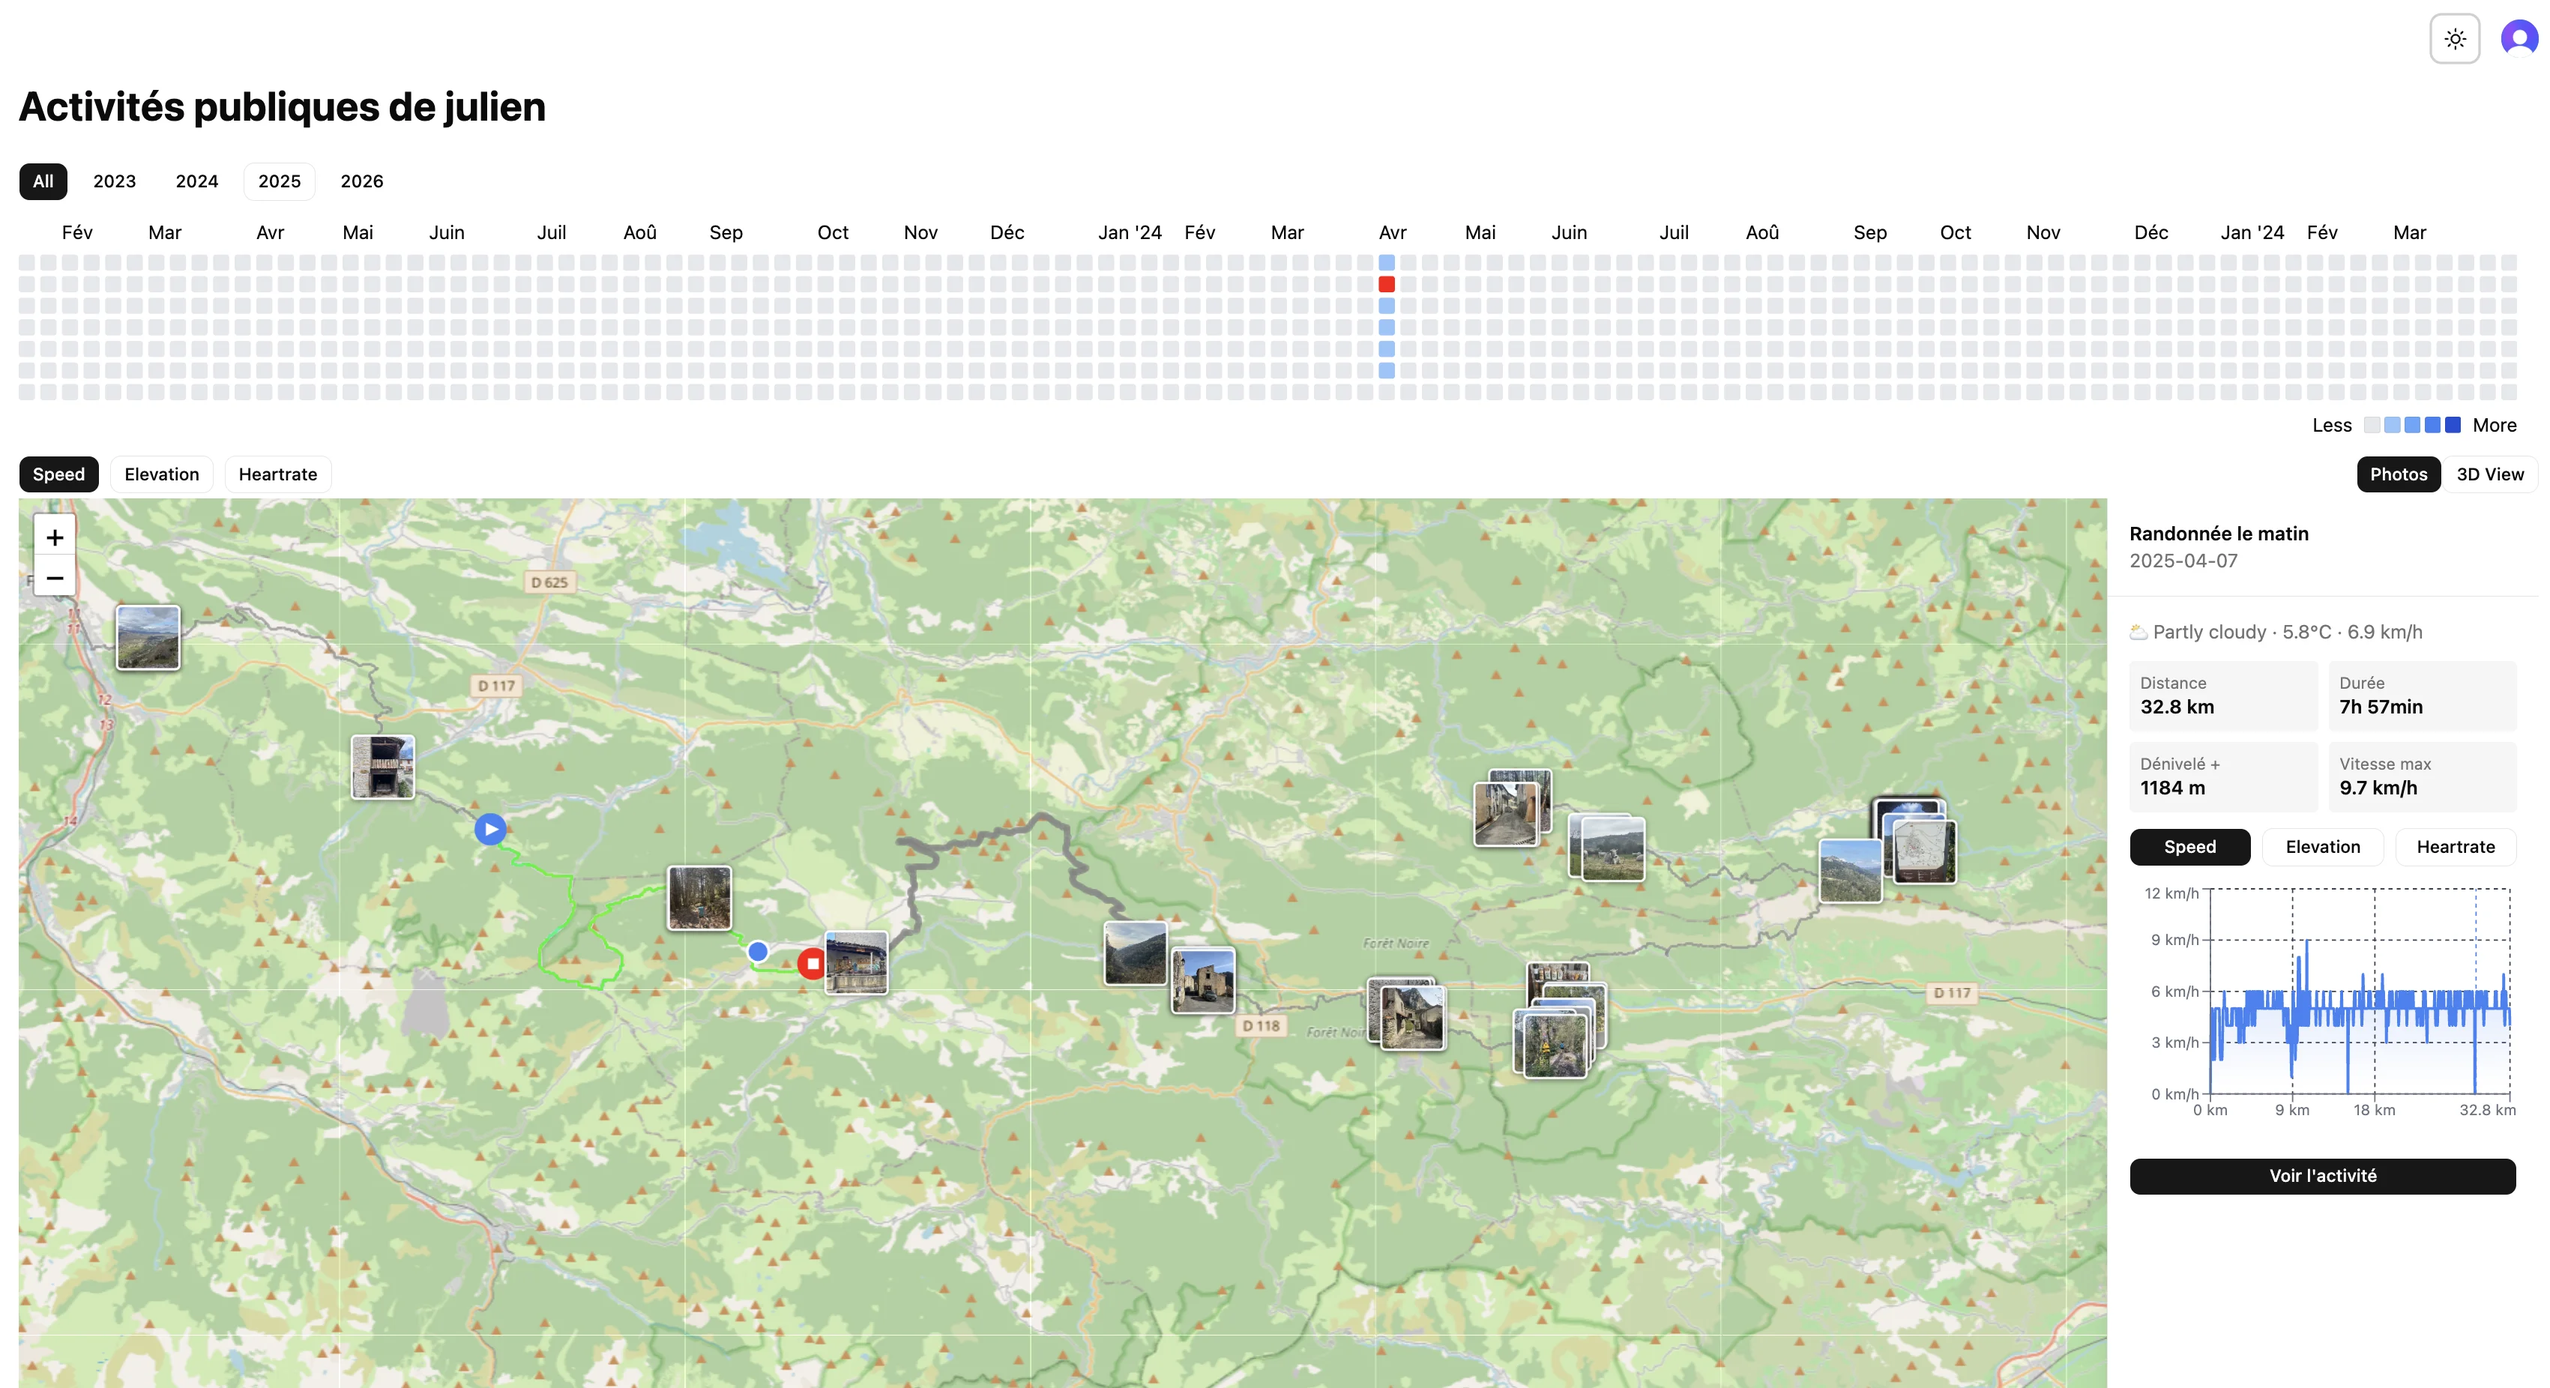
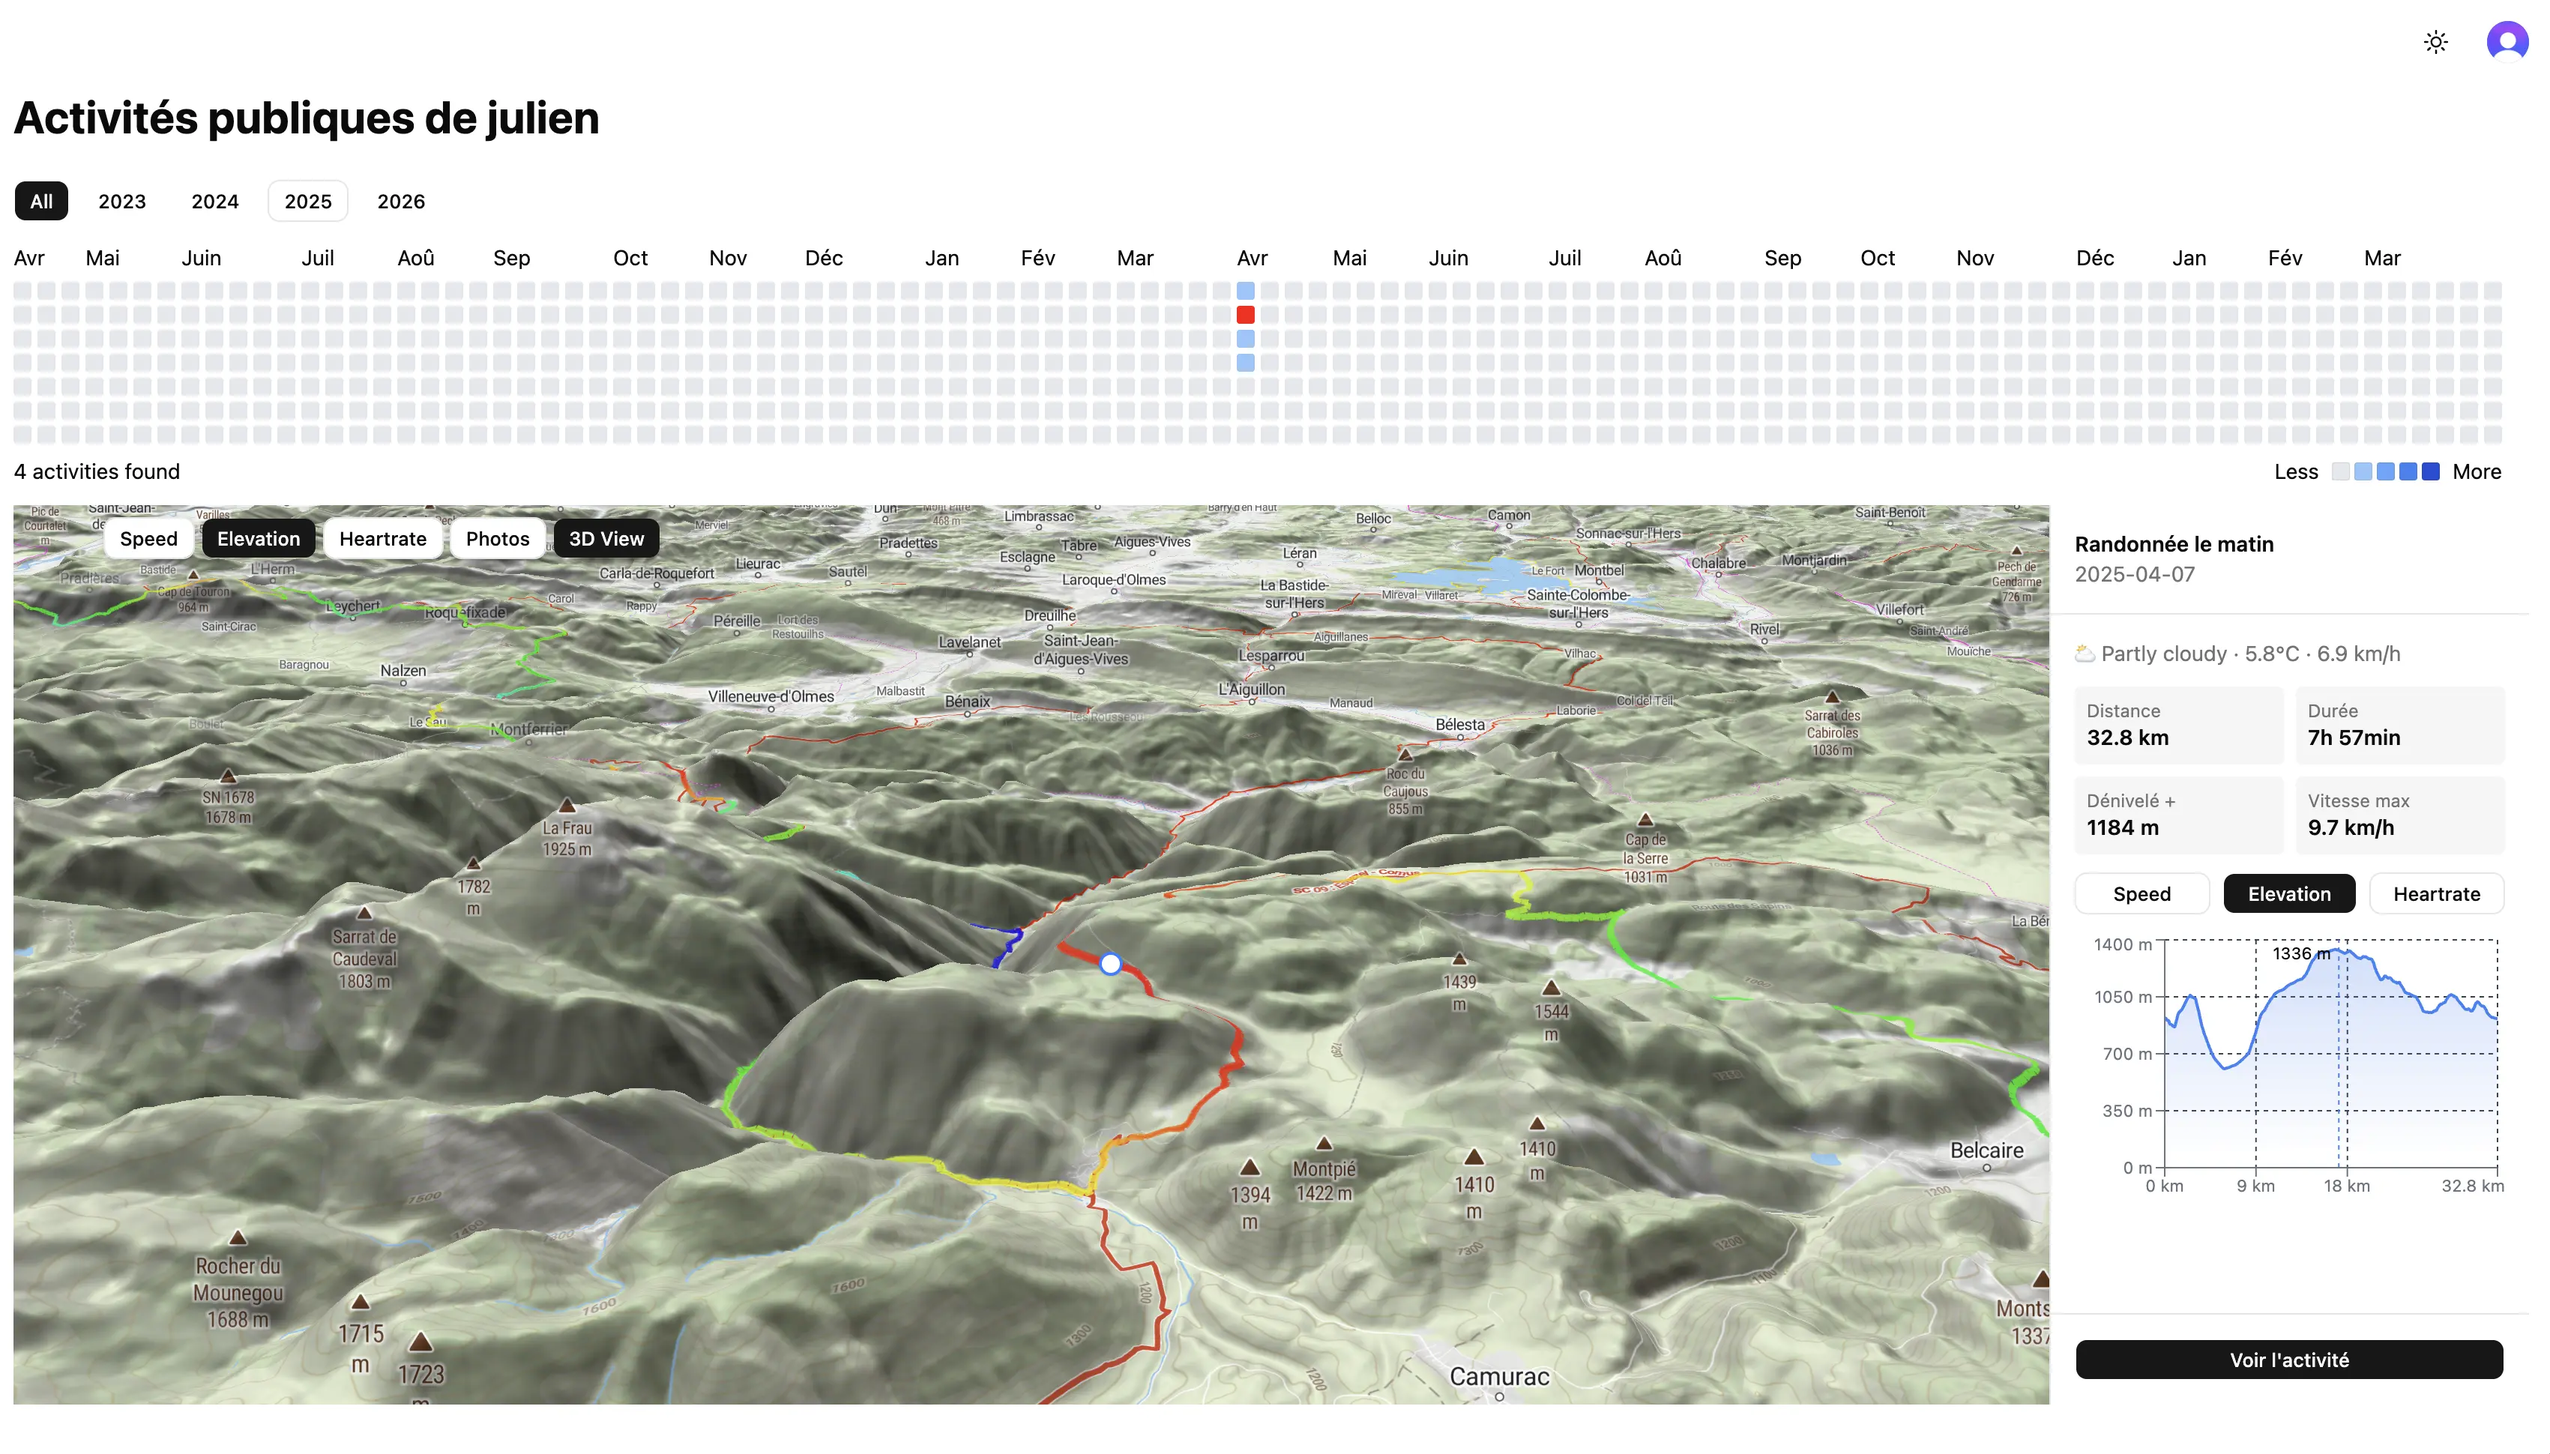
new images add to readme + homepage

diff --git a/client/src/app/page.tsx b/client/src/app/page.tsx
@@ -43,17 +43,37 @@ export default function Home() {
         </div>
       </section>
 
-      {/* Screenshot */}
-      <section className="px-6 max-w-5xl mx-auto">
-        <div className="rounded-xl overflow-hidden border shadow-2xl">
-          <Image
-            src="/map.webp"
-            alt="Couloir activity map"
-            width={1200}
-            height={700}
-            className="w-full object-cover"
-            priority
-          />
+      {/* Screenshots */}
+      <section className="px-6 max-w-6xl mx-auto">
+        <div className="grid grid-cols-1 md:grid-cols-3 gap-4">
+          <div className="rounded-xl overflow-hidden border shadow-2xl">
+            <Image
+              src="/map.webp"
+              alt="Couloir activity map"
+              width={1200}
+              height={700}
+              className="w-full object-cover"
+              priority
+            />
+          </div>
+          <div className="rounded-xl overflow-hidden border shadow-2xl">
+            <Image
+              src="/map2.webp"
+              alt="Couloir activity stats"
+              width={1200}
+              height={700}
+              className="w-full object-cover"
+            />
+          </div>
+          <div className="rounded-xl overflow-hidden border shadow-2xl">
+            <Image
+              src="/map3.webp"
+              alt="Couloir 3D map"
+              width={1200}
+              height={700}
+              className="w-full object-cover"
+            />
+          </div>
         </div>
       </section>
 

diff --git a/README.md b/README.md
@@ -4,7 +4,11 @@
 
 A personal activity tracker for outdoor sports — skiing, surfing, trekking, and more. Upload GPS files from any device or sync directly from Strava, and visualize all your activities on an interactive map with elevation and speed charts.
 
-![Couloir map](client/public/map.webp)
+<div align="center">
+  <img src="client/public/map.webp" width="32%" />
+  <img src="client/public/map2.webp" width="32%" />
+  <img src="client/public/map3.webp" width="32%" />
+</div>
 
 ## Features
 
